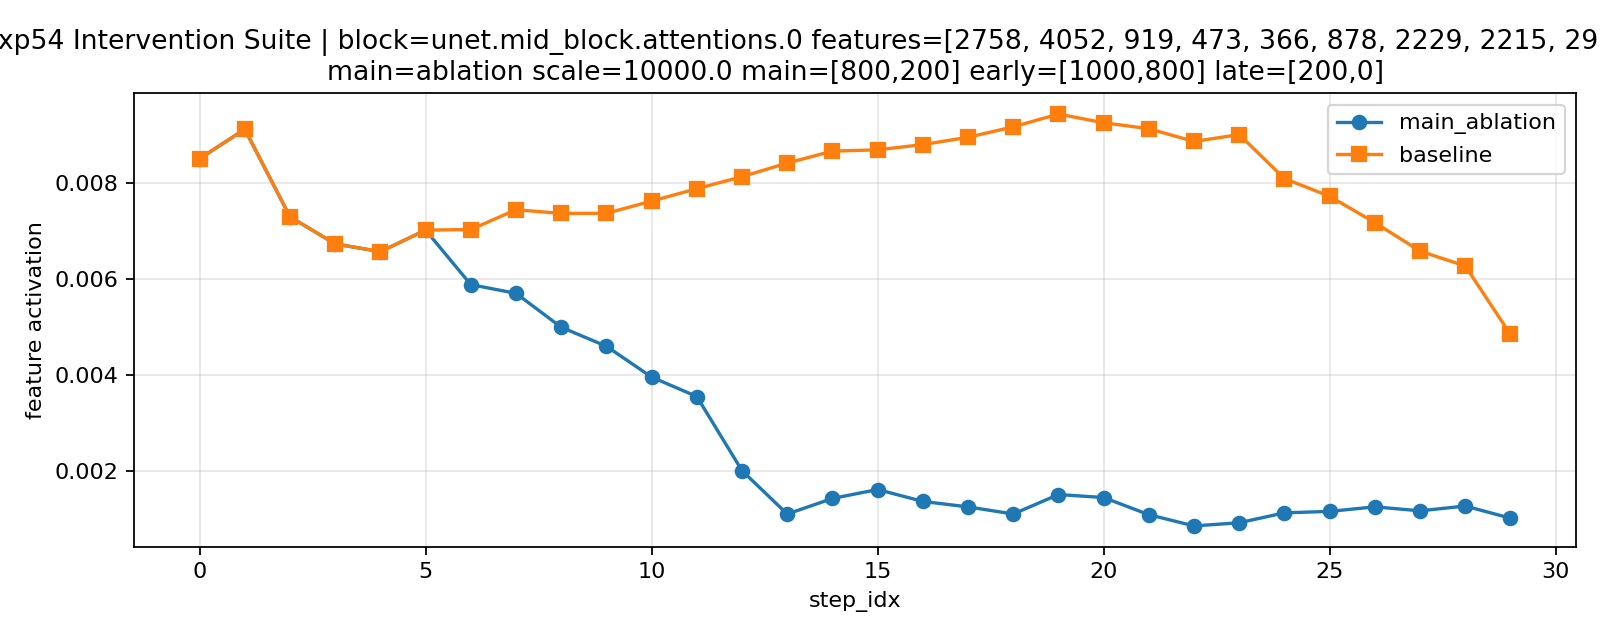
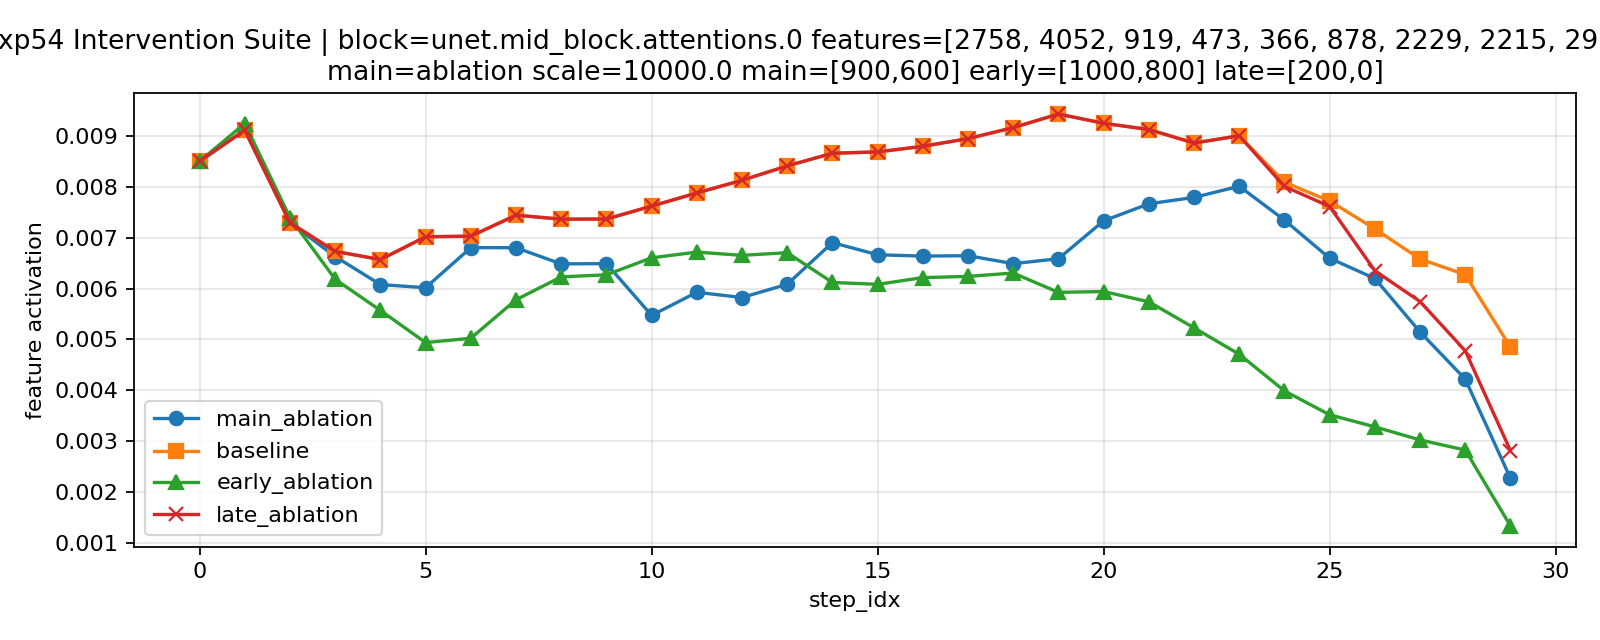
expriment finished

diff --git a/scripts/sdxl_wsae/cli.py b/scripts/sdxl_wsae/cli.py
@@ -120,7 +120,7 @@ def parse_args() -> argparse.Namespace:
     g_int.add_argument(
         "--int_spatial_mask",
         type=str,
-        default="none",
+        default="gaussian_center",
         choices=["none", "gaussian_center"],
         help="空间 mask（打破全图对称性）：none 或 gaussian_center",
     )
@@ -130,8 +130,8 @@ def parse_args() -> argparse.Namespace:
         default=0.25,
         help="gaussian_center 的 sigma 相对尺度（sigma_px = sigma * min(H,W)）",
     )
-    g_int.add_argument("--int_t_start", type=int, default=800, help="main 窗口：t_start")
-    g_int.add_argument("--int_t_end", type=int, default=200, help="main 窗口：t_end")
+    g_int.add_argument("--int_t_start", type=int, default=900, help="main 窗口：t_start")
+    g_int.add_argument("--int_t_end", type=int, default=600, help="main 窗口：t_end")
     g_int.add_argument("--int_step_start", type=int, default=-1, help=">=0 时启用 step 下界（优先生效）")
     g_int.add_argument("--int_step_end", type=int, default=-1, help=">=0 时启用 step 上界（优先生效）")
     g_int.add_argument("--no_baseline", action="store_true", help="不跑 baseline（节省一半计算）")
